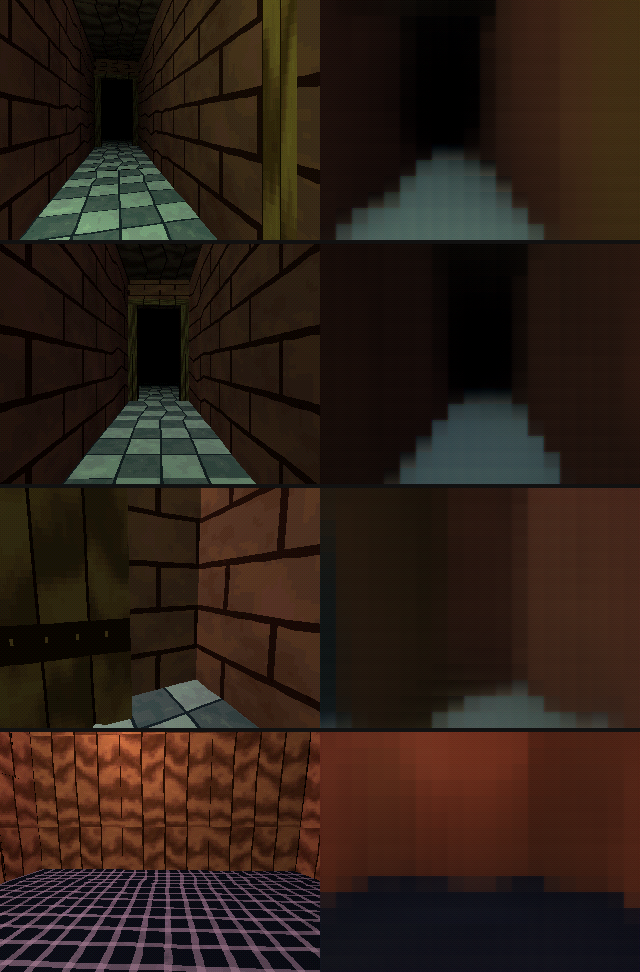
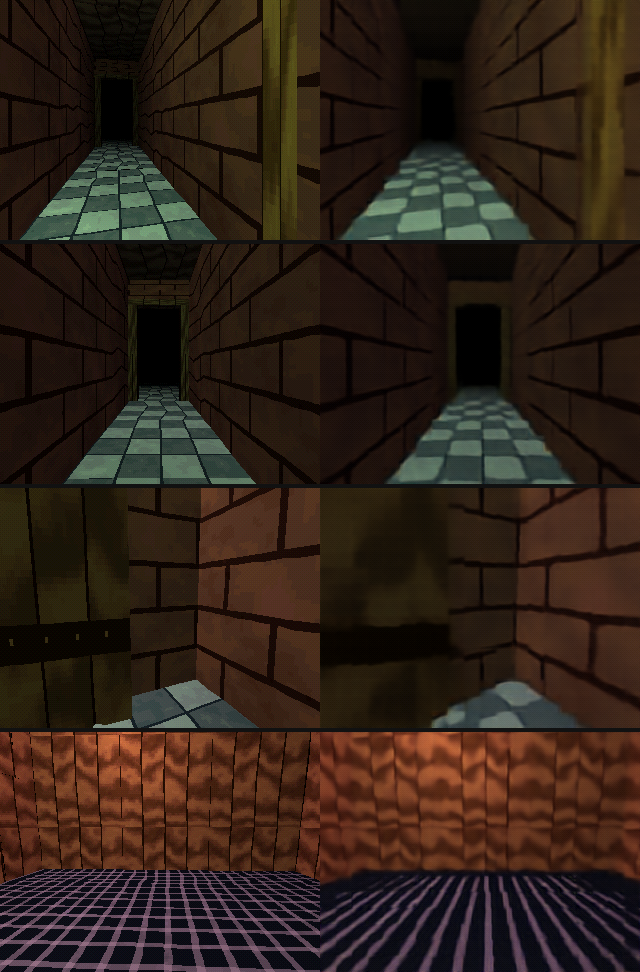
Update the README comparison to step 68,500
Same four frames of the seed-7 walk, now with the overnight model.

diff --git a/README.md b/README.md
@@ -7,8 +7,10 @@ comes out when it gets things wrong.
 ![PS1 rasteriser (left) and the network (right) on four frames of a walk](docs/comparison.png)
 
 *Work in progress: the PS1 rasteriser (left) and the network (right) after
-3,500 training steps, on frames of a walk through a level it never saw. It has
-the layout, lighting and surface colours, in 16-pixel blocks; no textures yet.*
+68,500 training steps, on frames of a walk through a level it never saw. It has
+the layout, lighting and textures (bricks, tiles, wood grain, the wire grid),
+softened and a little wavy; fine detail such as the door's iron bands and the
+far end of a corridor still dissolves.*
 
 ## Data generator (`datagen/`)
 
